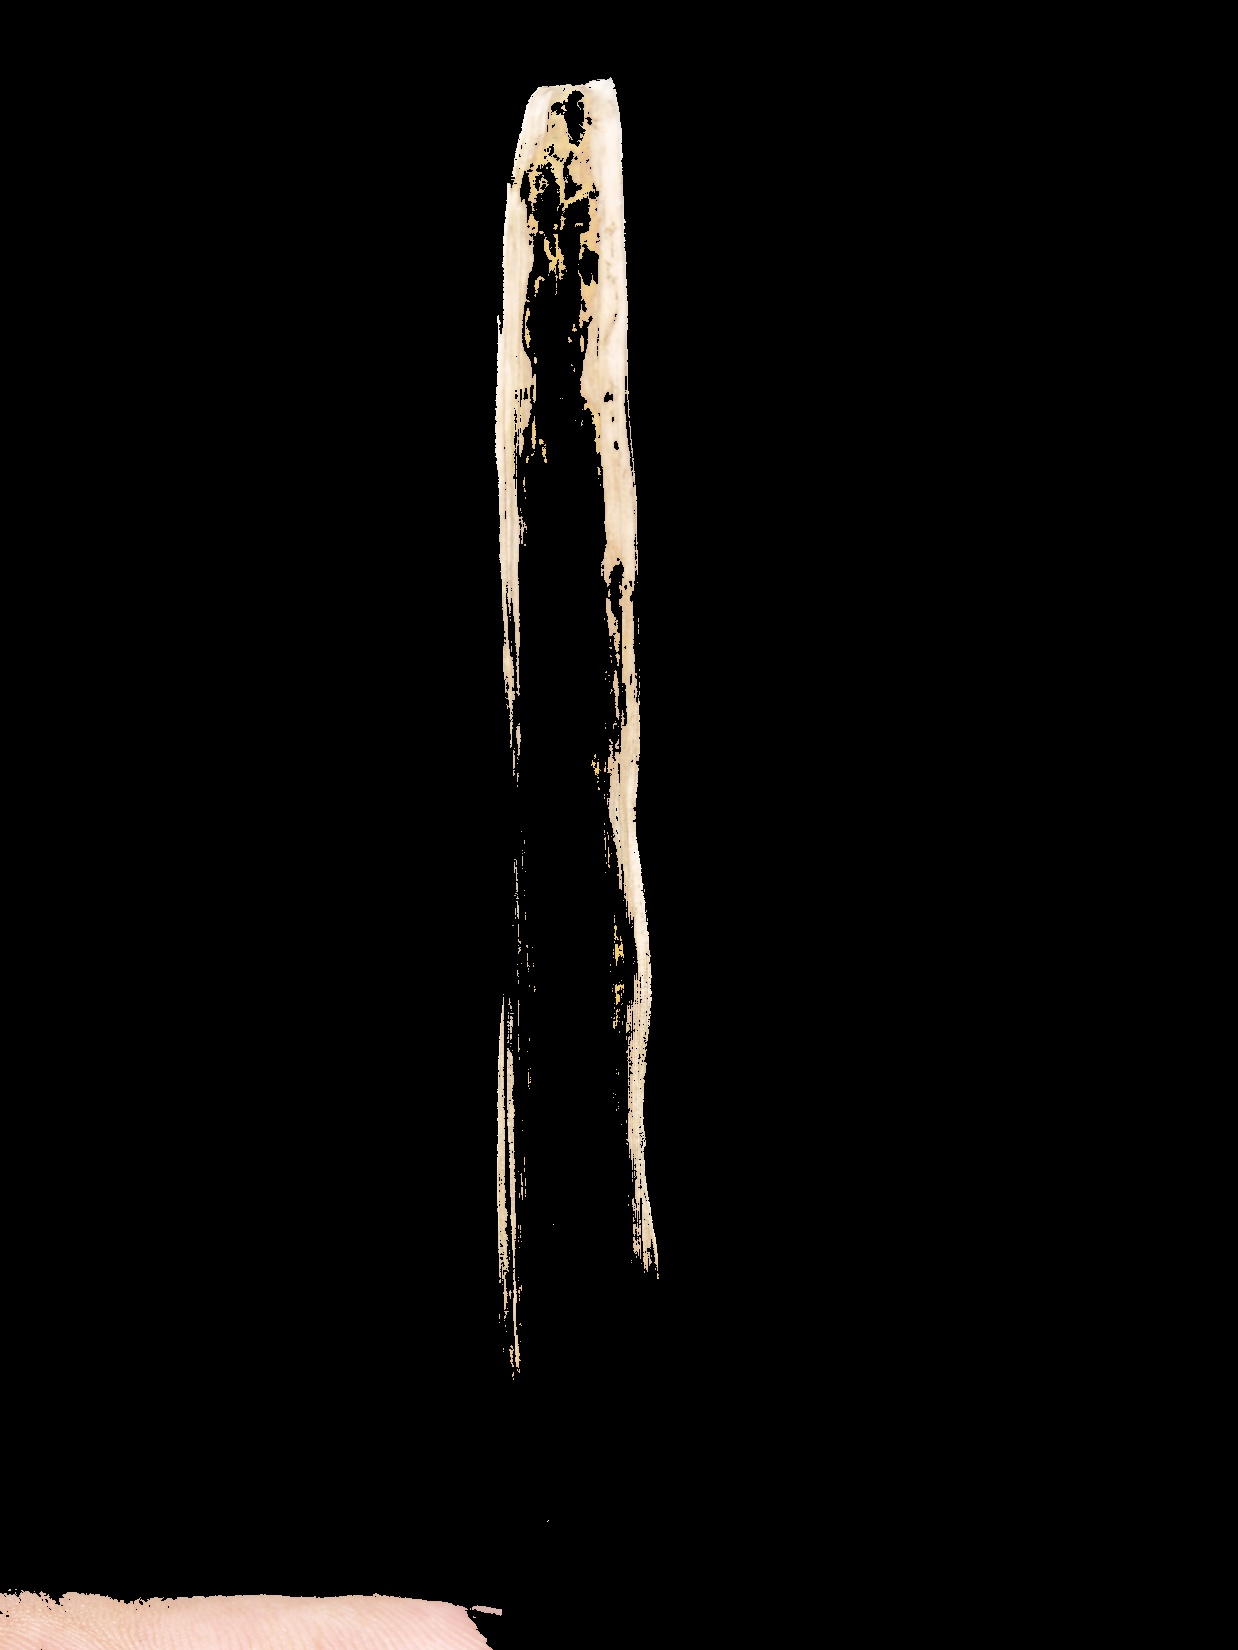
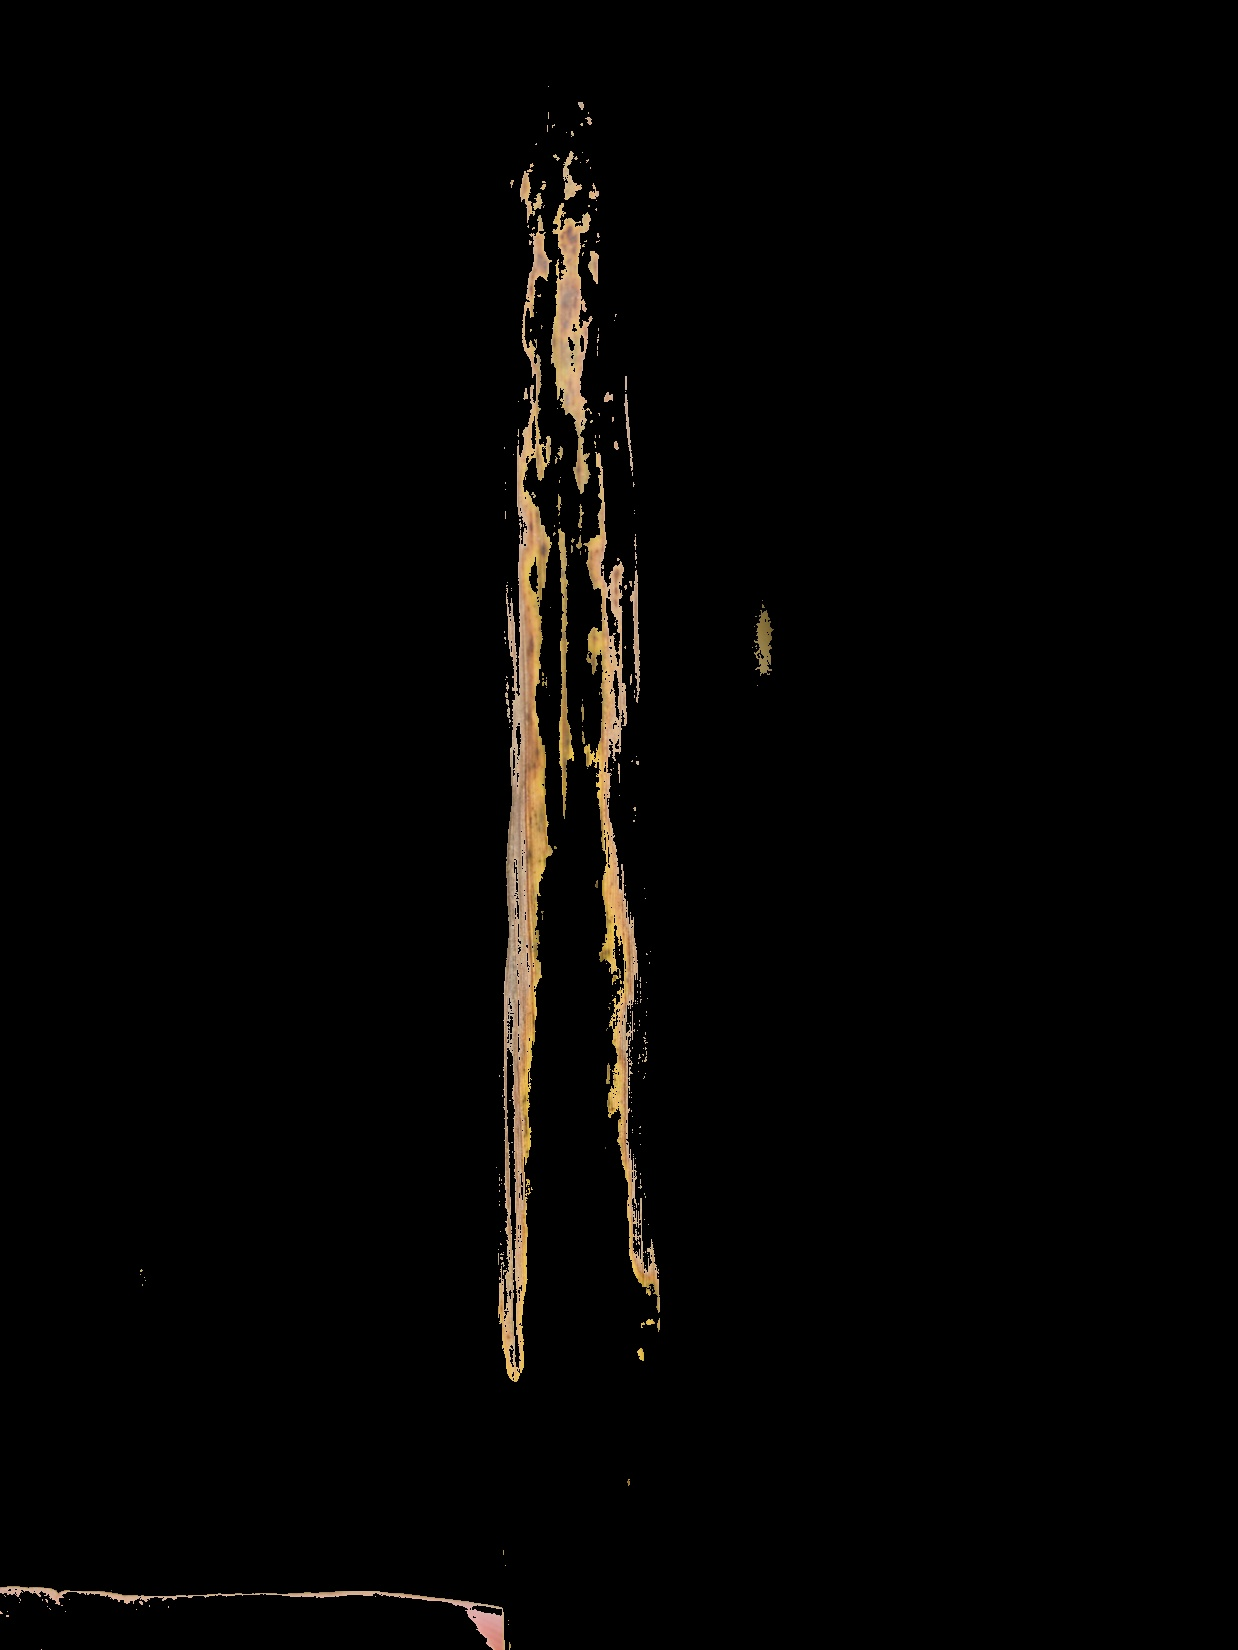
add lbp and clbp

Changed region(s): [[0.399, 0.0309, 0.5525, 0.8345], [0.0, 0.9582, 0.4297, 1.0], [0.6139, 0.3709, 0.6446, 0.4018]]

diff --git a/dubey/preprocessing-colorWtexture.py b/dubey/preprocessing-colorWtexture.py
@@ -1,0 +1,157 @@
+# ../images/blb_1.jpg
+import cv2
+import numpy as np
+from sklearn.cluster import KMeans
+from sklearn.preprocessing import normalize
+from skimage.feature import local_binary_pattern
+from skimage import feature
+import matplotlib.pyplot as plt
+
+# Define the LBP parameters
+radius = 1
+n_points = 8 * radius
+
+# Define the CLBP parameters
+clbp_radius = 1
+clbp_points = 8
+
+def compute_ccv(image, segment_mask):
+    # Convert the image to LAB color space
+    lab_image = cv2.cvtColor(image, cv2.COLOR_BGR2LAB)
+
+    # Blur the LAB image
+    blurred_lab_image = cv2.GaussianBlur(lab_image, (5, 5), 0)
+
+    # Extract the L channel
+    l_channel = blurred_lab_image[:, :, 0]
+
+    # Find coherent and incoherent pixels
+    coherent_pixels = l_channel[segment_mask > 0]
+    incoherent_pixels = l_channel[segment_mask == 0]
+
+    # Compute histograms for coherent and incoherent pixels
+    coherent_hist = cv2.calcHist([coherent_pixels], [0], None, [32], [0, 256])
+    incoherent_hist = cv2.calcHist([incoherent_pixels], [0], None, [32], [0, 256])
+
+    # Concatenate the two histograms
+    ccv = np.concatenate((coherent_hist, incoherent_hist), axis=None)
+
+    # Normalize the CCV
+    ccv = normalize(ccv.reshape(1, -1), norm='l1')
+
+    return ccv.flatten()
+
+# Read the input image
+input_image = cv2.imread('../images/blb_1.jpg')
+
+# Convert the input image to LAB color space
+lab_image = cv2.cvtColor(input_image, cv2.COLOR_BGR2LAB)
+
+# Reshape the LAB image to a 2D array of pixels
+lab_image_reshaped = lab_image.reshape((-1, 3))
+
+# Define custom lower and upper bounds in the LAB color space
+lower_bound = np.array([0, 128, 128])  # Adjust as needed
+upper_bound = np.array([255, 255, 255])  # Adjust as needed
+
+# Mask the LAB image based on the custom bounds
+mask = cv2.inRange(lab_image, lower_bound, upper_bound)
+
+# Apply k-means clustering on the masked LAB image
+masked_lab_image = cv2.bitwise_and(lab_image, lab_image, mask=mask)
+masked_lab_image_reshaped = masked_lab_image.reshape((-1, 3))
+
+num_clusters = 2  # Adjust this based on your requirements
+
+kmeans = KMeans(n_clusters=num_clusters)
+kmeans.fit(masked_lab_image_reshaped)
+cluster_labels = kmeans.predict(masked_lab_image_reshaped)
+
+# Reshape cluster_labels back to the shape of the original image
+cluster_labels = cluster_labels.reshape(lab_image.shape[:2])
+
+# 7. Display the original image and segmented images
+plt.subplot(1, num_clusters + 1, 1)
+plt.imshow(cv2.cvtColor(input_image, cv2.COLOR_BGR2RGB))
+plt.title("Original Image")
+
+# Initialize a list to store segmented images
+segmented_images = []
+
+# Initialize a list to store GCH, CCV, LBP, and CLBP features
+gch_features = []
+ccv_features = []
+lbp_features = []
+clbp_features = []
+
+for i in range(num_clusters):
+    segmented_image = np.zeros_like(input_image)
+    segmented_image[cluster_labels == i] = input_image[cluster_labels == i]
+    segmented_images.append(segmented_image)
+    
+    # Calculate GCH for each segmented image
+    gray_segmented_image = cv2.cvtColor(segmented_image, cv2.COLOR_BGR2GRAY)
+    gch_hist = cv2.calcHist([gray_segmented_image], [0], None, [64], [0, 256])
+    gch_hist = normalize(gch_hist, norm='l1')
+    gch_features.append(gch_hist.flatten())
+
+    # Calculate CCV for each segmented image
+    ccv = compute_ccv(segmented_image, cluster_labels == i)
+    ccv_features.append(ccv)
+
+    # Calculate LBP for each segmented image
+    lbp = local_binary_pattern(gray_segmented_image, n_points, radius, method='uniform')
+    lbp_hist, _ = np.histogram(lbp, bins=np.arange(0, 128 + 1), range=(0, 128))
+    lbp_hist = normalize(lbp_hist.reshape(1, -1), norm='l1')
+    lbp_features.append(lbp_hist.flatten())
+
+    # Calculate CLBP for each segmented image
+    clbp = feature.local_binary_pattern(gray_segmented_image, clbp_points, clbp_radius, method='uniform')
+    clbp_hist, _ = np.histogram(clbp, bins=np.arange(0, 256 + 1), range=(0, 256))
+    clbp_hist = normalize(clbp_hist.reshape(1, -1), norm='l1')
+    clbp_features.append(clbp_hist.flatten())
+
+    plt.subplot(1, num_clusters + 1, i + 2)
+    plt.imshow(cv2.cvtColor(segmented_image, cv2.COLOR_BGR2RGB))
+    plt.title(f"Segment {i + 1}")
+
+# Save the segmented images
+for i, segmented_image in enumerate(segmented_images):
+    cv2.imwrite(f"segmented_image_{i + 1}.jpg", segmented_image)
+
+
+# Display GCH, CCV, LBP histograms, LBP images, CLBP histograms, and CLBP images for each segmented image
+for i in range(num_clusters):
+    plt.figure(figsize=(18, 6))
+    
+    plt.subplot(1, 7, 1)
+    plt.imshow(cv2.cvtColor(segmented_images[i], cv2.COLOR_BGR2RGB))
+    plt.title(f"Segment {i + 1}")
+    
+    plt.subplot(1, 7, 2)
+    plt.plot(gch_features[i])
+    plt.title(f"GCH for Segment {i + 1}")
+    
+    plt.subplot(1, 7, 3)
+    plt.plot(ccv_features[i])
+    plt.title(f"CCV for Segment {i + 1}")
+
+    plt.subplot(1, 7, 4)
+    plt.bar(np.arange(128), lbp_features[i])
+    plt.title(f"LBP Histogram for Segment {i + 1}")
+
+    plt.subplot(1, 7, 5)
+    lbp_image = local_binary_pattern(cv2.cvtColor(segmented_images[i], cv2.COLOR_BGR2GRAY), n_points, radius, method='uniform')
+    plt.imshow(lbp_image, cmap='gray')
+    plt.title(f"LBP Image for Segment {i + 1}")
+
+    plt.subplot(1, 7, 6)
+    plt.bar(np.arange(256), clbp_features[i])
+    plt.title(f"CLBP Histogram for Segment {i + 1}")
+
+    plt.subplot(1, 7, 7)
+    clbp_image = feature.local_binary_pattern(cv2.cvtColor(segmented_images[i], cv2.COLOR_BGR2GRAY), clbp_points, clbp_radius, method='uniform')
+    plt.imshow(clbp_image, cmap='gray')
+    plt.title(f"CLBP Image for Segment {i + 1}")
+    
+plt.show()

diff --git a/dubey/preprocessing-colorWLBP.py b/dubey/preprocessing-colorWLBP.py
@@ -1,0 +1,122 @@
+# ../images/blb_1.jpg
+import cv2
+import numpy as np
+from sklearn.cluster import KMeans
+from sklearn.preprocessing import normalize
+from skimage.feature import local_binary_pattern
+import matplotlib.pyplot as plt
+
+# Define the LBP parameters
+radius = 1
+n_points = 8 * radius
+
+def compute_ccv(image, segment_mask):
+    # Convert the image to LAB color space
+    lab_image = cv2.cvtColor(image, cv2.COLOR_BGR2LAB)
+
+    # Blur the LAB image
+    blurred_lab_image = cv2.GaussianBlur(lab_image, (5, 5), 0)
+
+    # Extract the L channel
+    l_channel = blurred_lab_image[:, :, 0]
+
+    # Find coherent and incoherent pixels
+    coherent_pixels = l_channel[segment_mask > 0]
+    incoherent_pixels = l_channel[segment_mask == 0]
+
+    # Compute histograms for coherent and incoherent pixels
+    coherent_hist = cv2.calcHist([coherent_pixels], [0], None, [32], [0, 256])
+    incoherent_hist = cv2.calcHist([incoherent_pixels], [0], None, [32], [0, 256])
+
+    # Concatenate the two histograms
+    ccv = np.concatenate((coherent_hist, incoherent_hist), axis=None)
+
+    # Normalize the CCV
+    ccv = normalize(ccv.reshape(1, -1), norm='l1')
+
+    return ccv.flatten()
+
+# Read the input image
+input_image = cv2.imread('../images/blb_1.jpg')
+
+# Convert the input image to LAB color space
+lab_image = cv2.cvtColor(input_image, cv2.COLOR_BGR2LAB)
+
+# Reshape the LAB image to a 2D array of pixels
+lab_image_reshaped = lab_image.reshape((-1, 3))
+
+# Define custom lower and upper bounds in the LAB color space
+lower_bound = np.array([0, 128, 128])  # Adjust as needed
+upper_bound = np.array([255, 255, 255])  # Adjust as needed
+
+# Mask the LAB image based on the custom bounds
+mask = cv2.inRange(lab_image, lower_bound, upper_bound)
+
+# Apply k-means clustering on the masked LAB image
+masked_lab_image = cv2.bitwise_and(lab_image, lab_image, mask=mask)
+masked_lab_image_reshaped = masked_lab_image.reshape((-1, 3))
+
+num_clusters = 2  # Adjust this based on your requirements
+
+kmeans = KMeans(n_clusters=num_clusters)
+kmeans.fit(masked_lab_image_reshaped)
+cluster_labels = kmeans.predict(masked_lab_image_reshaped)
+
+# Reshape cluster_labels back to the shape of the original image
+cluster_labels = cluster_labels.reshape(lab_image.shape[:2])
+
+# Initialize a list to store segmented images
+segmented_images = []
+
+# Initialize a list to store GCH, CCV, and LBP features
+gch_features = []
+ccv_features = []
+lbp_features = []
+
+for i in range(num_clusters):
+    segmented_image = np.zeros_like(input_image)
+    segmented_image[cluster_labels == i] = input_image[cluster_labels == i]
+    segmented_images.append(segmented_image)
+    
+    # Calculate GCH for each segmented image
+    gray_segmented_image = cv2.cvtColor(segmented_image, cv2.COLOR_BGR2GRAY)
+    gch_hist = cv2.calcHist([gray_segmented_image], [0], None, [64], [0, 256])
+    gch_hist = normalize(gch_hist, norm='l1')
+    gch_features.append(gch_hist.flatten())
+
+    # Calculate CCV for each segmented image
+    ccv = compute_ccv(segmented_image, cluster_labels == i)
+    ccv_features.append(ccv)
+
+    # Calculate LBP for each segmented image
+    lbp = local_binary_pattern(gray_segmented_image, n_points, radius, method='uniform')
+    lbp_hist, _ = np.histogram(lbp, bins=np.arange(0, 128 + 1), range=(0, 128))
+    lbp_hist = normalize(lbp_hist.reshape(1, -1), norm='l1')
+    lbp_features.append(lbp_hist.flatten())
+
+# Display GCH, CCV, LBP histograms, and LBP images for each segmented image
+for i in range(num_clusters):
+    plt.figure(figsize=(15, 5))
+    
+    plt.subplot(1, 5, 1)
+    plt.imshow(cv2.cvtColor(segmented_images[i], cv2.COLOR_BGR2RGB))
+    plt.title(f"Segment {i + 1}")
+    
+    plt.subplot(1, 5, 2)
+    plt.plot(gch_features[i])
+    plt.title(f"GCH for Segment {i + 1}")
+    
+    plt.subplot(1, 5, 3)
+    plt.plot(ccv_features[i])
+    plt.title(f"CCV for Segment {i + 1}")
+
+    plt.subplot(1, 5, 4)
+    plt.bar(np.arange(128), lbp_features[i])
+    plt.title(f"LBP Histogram for Segment {i + 1}")
+
+    plt.subplot(1, 5, 5)
+    lbp_image = local_binary_pattern(cv2.cvtColor(segmented_images[i], cv2.COLOR_BGR2GRAY), n_points, radius, method='uniform')
+    plt.imshow(lbp_image, cmap='gray')
+    plt.title(f"LBP Image for Segment {i + 1}")
+    
+plt.show()
